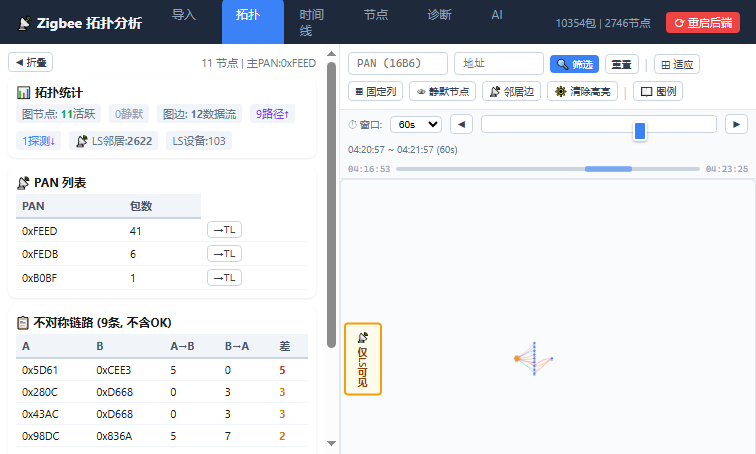
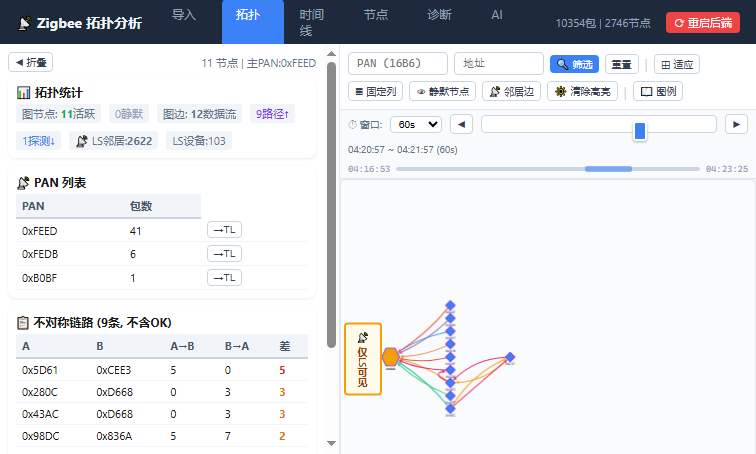
fix: 大网络拓扑密度自适应 (用户反馈 08-25: 77 节点列超长不友好)
固定列布局: 每深度一列 48px 间距 → 大网络 (50+ 节点/列) 列超长, fit 后
节点重叠/不可读。修复: >40 节点启用密集模式 — 同深度列拆子列 (每列 ≤18,
间距 ≥34 保证不重叠) + 列宽 200→150 + offpath 区压缩 (行数/间距自适应)。
验证: 10354 帧大包 (77 节点) 渲染无 JS 异常, 布局逻辑间距守恒;
视觉效果请目检 (截图 u13_step4_noplay.png)。v=20260825f

Changed region(s): [[0.4868, 0.6476, 0.7302, 0.9251]]

diff --git a/frontend/js/topo.js b/frontend/js/topo.js
@@ -449,11 +449,26 @@ reg('topo', function(){
       cy.nodes().forEach(function(n){var aid=n.data('aid');if(nd[aid]==null)nd[aid]=99;n.style('display','element');var d=nd[aid];if(d==null)d=99;var isOnPath2=n.data('on_path')===true;if(!isOnPath2){n.style('background-color','#f59e0b');n.style('border-color','#d97706');n.style('opacity','0.9');n.connectedEdges().forEach(function(e){if(e.data('edge_type')==='traffic'){e.style('line-color','#f59e0b');e.style('target-arrow-color','#f59e0b');e.style('opacity','0.6');}});}else{if(!n.hasClass('sleeping')){n.style('opacity','1');}}});
       var cols={};cy.nodes().forEach(function(n){var d=nd[n.data('aid')];if(d==null)d=99;if(!cols[d])cols[d]=[];cols[d].push(n);});
       var pos={},offAll=[];cy.nodes().forEach(function(n){var d=nd[n.data('aid')];if(d==null)d=99;if(d<99&&!n.data('on_path'))offAll.push(n);});
-      var offCols=Math.max(3,Math.ceil(offAll.length/12));if(offCols<1)offCols=1;var offPerCol=Math.ceil(offAll.length/offCols),offStartX=-(offCols+2)*200;
-      for(var c=0;c<offCols;c++){var chunk=offAll.slice(c*offPerCol,(c+1)*offPerCol),ch=Math.max(300,chunk.length*36);chunk.forEach(function(n,i){pos[n.id()]={x:offStartX+c*200,y:-(ch/2)+(ch/(chunk.length+1))*(i+1)};});}
+      // U13 密度自适应 (用户反馈 08-25: 大网络节点多 → 列超长/重叠不友好):
+      // >40 节点: 同深度列拆子列 (每列 ≤18, 间距≥34 保证不重叠) + 列宽/offpath 区压缩
+      var totalN=cy.nodes().length;
+      var dense=totalN>40;
+      var colGap=dense?34:48, perColMax=dense?18:1e9, colW=dense?150:200;
+      var offGap=dense?24:36, offRowN=dense?20:15, offSep=dense?20:28;
+      var offCols=Math.max(3,Math.ceil(offAll.length/12));if(offCols<1)offCols=1;var offPerCol=Math.ceil(offAll.length/offCols),offStartX=-(offCols+2)*colW;
+      for(var c=0;c<offCols;c++){var chunk=offAll.slice(c*offPerCol,(c+1)*offPerCol),ch=Math.max(300,chunk.length*offGap);chunk.forEach(function(n,i){pos[n.id()]={x:offStartX+c*colW,y:-(ch/2)+(ch/(chunk.length+1))*(i+1)};});}
       pos['0']={x:-200,y:0};
-      var rColX=0;for(var d2=1;d2<=pathMax;d2++){var nds3=cols[d2];if(!nds3)continue;nds3=nds3.filter(function(n){return nd[n.data('aid')]!=null&&nd[n.data('aid')]<99;});var pNodes=nds3.filter(function(n){return n.data('on_path');});if(pNodes.length===0){rColX+=200;continue;}var ch3=Math.max(300,pNodes.length*48);pNodes.forEach(function(n,i){pos[n.id()]={x:rColX,y:-(ch3/2)+(ch3/(pNodes.length+1))*(i+1)};});rColX+=200;}
-      var d99=cols[99]||[];for(var oi=0;oi<d99.length;oi++){pos[d99[oi].id()]={x:rColX+100+(oi%15)*28,y:-200+Math.floor(oi/15)*24};}
+      var rColX=0;for(var d2=1;d2<=pathMax;d2++){var nds3=cols[d2];if(!nds3)continue;nds3=nds3.filter(function(n){return nd[n.data('aid')]!=null&&nd[n.data('aid')]<99;});var pNodes=nds3.filter(function(n){return n.data('on_path');});if(pNodes.length===0){rColX+=colW;continue;}
+        var subCols=Math.max(1,Math.ceil(pNodes.length/perColMax));
+        for(var si=0;si<subCols;si++){
+          var sub=pNodes.slice(si*perColMax,(si+1)*perColMax);
+          if(!sub.length)continue;
+          var ch3=Math.max(300,sub.length*colGap);
+          sub.forEach(function(n,i){pos[n.id()]={x:rColX+si*colW,y:-(ch3/2)+(ch3/(sub.length+1))*(i+1)};});
+        }
+        rColX+=subCols*colW;
+      }
+      var d99=cols[99]||[];for(var oi=0;oi<d99.length;oi++){pos[d99[oi].id()]={x:rColX+100+(oi%offRowN)*offSep,y:-200+Math.floor(oi/offRowN)*24};}
       cy.layout({name:'preset',positions:pos,fit:true,padding:40}).run();
       if(userZoom!=null){cy.zoom(userZoom);cy.pan(userPan);}  // 恢复用户缩放
       document.getElementById('off-label').style.display='block';

diff --git a/frontend/js/app.js b/frontend/js/app.js
@@ -8,7 +8,7 @@ window.S = S; window.A = A; window.sb = sb; window.fmtTs = fmtTs;
 window.sr = sr; window.setProg = setProg; window.doPI = doPI; window.doI = doI;
 
 // ── 页面模块静态导入 (确保所有 reg() 在 rt() 前完成) ──
-import './topo.js?v=20260825d';  // 缓存破坏: 时区修复 (UTC→本地), 改版递增
+import './topo.js?v=20260825f';  // 缓存破坏: 时区修复 (UTC→本地), 改版递增
 import './import.js?v=20260813k';  // 缓存破坏: 大包阈值 30MB→1MB, 改版递增
 import './timeline.js?v=20260824a';  // 缓存破坏: 详情 ZCL 属性展示, 改版递增
 import './nodes.js?v=20260824a';  // 缓存破坏: 时区修复 + U9 重构, 改版递增

diff --git a/frontend/index.html b/frontend/index.html
@@ -27,7 +27,7 @@ function rt(){var h=location.hash.slice(1)||'import';
   document.getElementById('mc').innerHTML='';if(R[h])R[h]();}
 window.addEventListener('hashchange',rt);
 </script>
-<script type="module" src="js/app.js?v=20260825d"></script>
+<script type="module" src="js/app.js?v=20260825f"></script>
 <script>
 reg('ai',function(){document.getElementById('mc').innerHTML='<div class="card"><h3>🤖 AI 分析</h3><p class="hint">后续版本实现</p></div>'});
 document.querySelectorAll('.nt a').forEach(function(t){t.addEventListener('click',function(e){e.preventDefault();location.hash=this.dataset.r})});
